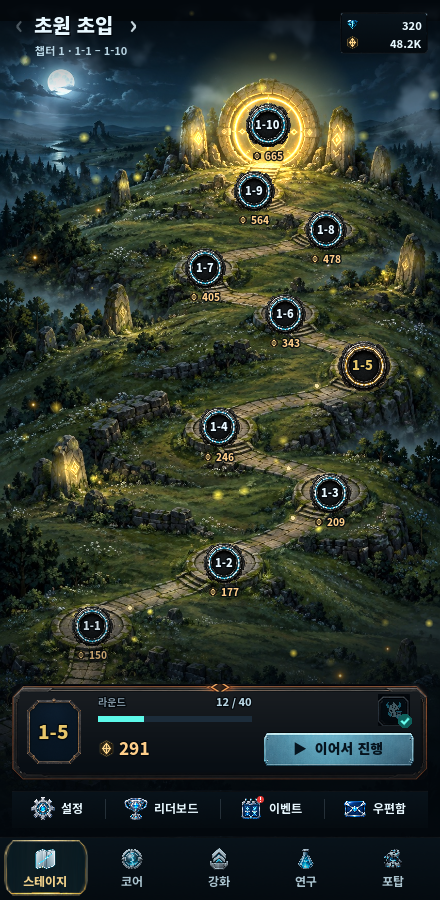
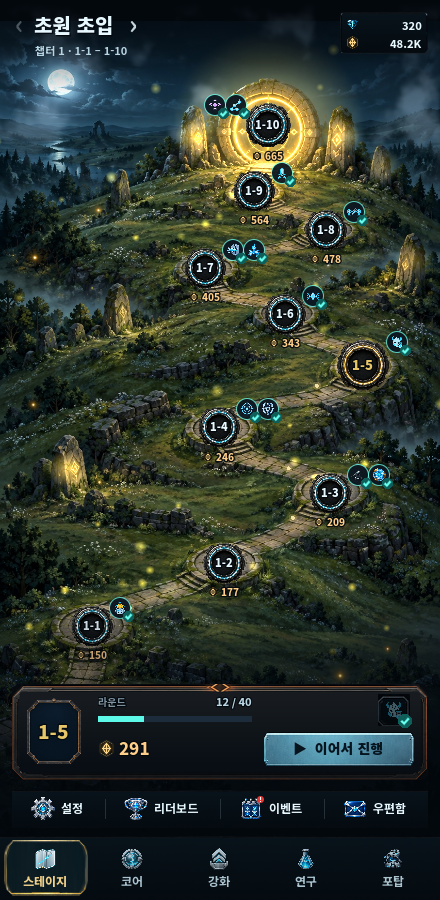
fix: 선택 소켓 숫자 중심 보정과 획득한 해금 배지 체크 표시 유지

diff --git a/docs/design_decisions/lobby.md b/docs/design_decisions/lobby.md
@@ -13,7 +13,7 @@
 
 | 영역 | 유지할 결정 | 참고 자료 |
 | --- | --- | --- |
-| 스테이지 지도 홈 | 별도 메인 로비 없이 스테이지 탭이 첫 화면이다. 챕터마다 그린 지도 위 발판에 10개 스테이지 소켓을 두고(클리어 청록·선택 금색·열림 빈 소켓·잠김 어둡게), 첫 클리어 해금은 획득 전까지 소켓 옆 아이콘 배지(최대 3개)로, 룬 보상은 아이콘과 축약 수치로 표시한다. 선택 스테이지까지 금빛 이동 표시와 숨쉬는 후광을 두고, 챕터별 구름·안개·포탈·용암 흐름·빛 맥동·입자를 은은하게 움직인다(화면이 가려지면 멈추고, 애니메이션 끄기 설정이면 정지). 상단은 ‹ 챕터명 ›·챕터 범위·자원 프레임 지갑, 하단은 선택 카드·설정/리더보드/이벤트/우편함 줄·5개 메뉴 탭 순서다. 지도가 화면에 다 들어가지 않으면 세로로 85%까지 줄인 뒤 남는 부분만 드래그·휠로 스크롤하고, 탭과 드래그를 구분한다. 넓은 화면은 460px 지도 열 양옆을 어둡게 늘린 같은 지도로 채운다. | [구현](../../godot/ui/stage_map_view.gd), [실제 적용 캡처](../../design/stage_map_concepts/2026-10-27/README.md), [회귀 검사](../../godot/tests/verify_lobby_stages.gd) |
+| 스테이지 지도 홈 | 별도 메인 로비 없이 스테이지 탭이 첫 화면이다. 챕터마다 그린 지도 위 발판에 10개 스테이지 소켓을 두고(클리어 청록·선택 금색·열림 빈 소켓·잠김 어둡게), 첫 클리어 해금은 소켓 옆 아이콘 배지(최대 3개)로 두되 획득 전에는 금색 테두리·반짝임, 획득 후에는 청록 테두리·체크로 계속 표시하고, 룬 보상은 아이콘과 축약 수치로 표시한다. 선택 스테이지까지 금빛 이동 표시와 숨쉬는 후광을 두고, 챕터별 구름·안개·포탈·용암 흐름·빛 맥동·입자를 은은하게 움직인다(화면이 가려지면 멈추고, 애니메이션 끄기 설정이면 정지). 상단은 ‹ 챕터명 ›·챕터 범위·자원 프레임 지갑, 하단은 선택 카드·설정/리더보드/이벤트/우편함 줄·5개 메뉴 탭 순서다. 지도가 화면에 다 들어가지 않으면 세로로 85%까지 줄인 뒤 남는 부분만 드래그·휠로 스크롤하고, 탭과 드래그를 구분한다. 넓은 화면은 460px 지도 열 양옆을 어둡게 늘린 같은 지도로 채운다. | [구현](../../godot/ui/stage_map_view.gd), [실제 적용 캡처](../../design/stage_map_concepts/2026-10-27/README.md), [회귀 검사](../../godot/tests/verify_lobby_stages.gd) |
 | 스테이지 카드 | 지도 아래 고정 카드에 스테이지 번호 소켓, 라운드 진행(라벨·수치·막대), 룬 보상, 첫 클리어 해금 아이콘, 시작 버튼을 둔다. 라운드 막대는 시작 버튼 앞에서 끝난다. 버튼은 ‘▶ 전투 시작’, 진행 중이면 ‘▶ 이어서 진행’, 잠김이면 자물쇠와 ‘X-Y 클리어 필요’로 어둡게 표시한다. 해금 아이콘을 누르면 위에 이름과 들어가는 곳(강화 탭에 추가 등)만 담은 말풍선을 띄우고, 다른 곳을 누르면 닫는다. 효과 수치와 별도 상세 모달은 두지 않는다. | [구현](../../godot/ui/lobby_stage_card.gd), [회귀 검사](../../godot/tests/verify_lobby_numbers.gd) |
 | 로비 설정 | 스테이지 홈 하단 단축 줄 맨 왼쪽 설정으로 여는 설정 모달에 MSAA(끄기·2배), 그림자 품질(끄기·낮음·중간·높음), 3D 렌더 해상도(50·75·100%), 프레임 제한(30·60)을 각각 라디오 선택으로 제공한다. 기본값은 2배·높음·100%·60이며, 해상도는 3D 전장에만 적용하고 메뉴·HUD·라벨은 원래 해상도를 유지한다. 작은 화면에서는 선택지를 줄바꿈한다. 그래픽 설정은 기기별로 저장하고 새 전투와 앱 재시작 후 이어서 하는 저장된 전투에 적용한다. 계정 및 저장 버튼을 유지한다. | [구현·검증](../../design/lobby/graphics_settings/README.md) |
 | 메뉴 탭 상단 | 코어·강화·연구·포탑 탭 상단에는 계정 로그인 아이콘을 표시하지 않는다. 계정 및 저장은 스테이지 홈 설정에서 접근한다. 전체 폭으로 이어지는 배경 띠를 두지 않는다. 제목과 기존 아이콘을 왼쪽에 정렬하고 뒤로가기 버튼은 두지 않으며, 하단 스테이지 탭과 시스템 뒤로가기로 지도 홈에 돌아간다. 자원은 오른쪽 독립 영역에 표시하고 좁은 화면에서도 긴 수치를 생략하지 않는다. | [공통 메뉴](../../godot/ui/lobby.gd), [Godot 상단 적용·검증](../../design/combat_ui_concepts/2026-09-22/lobby-header/README.md) |
